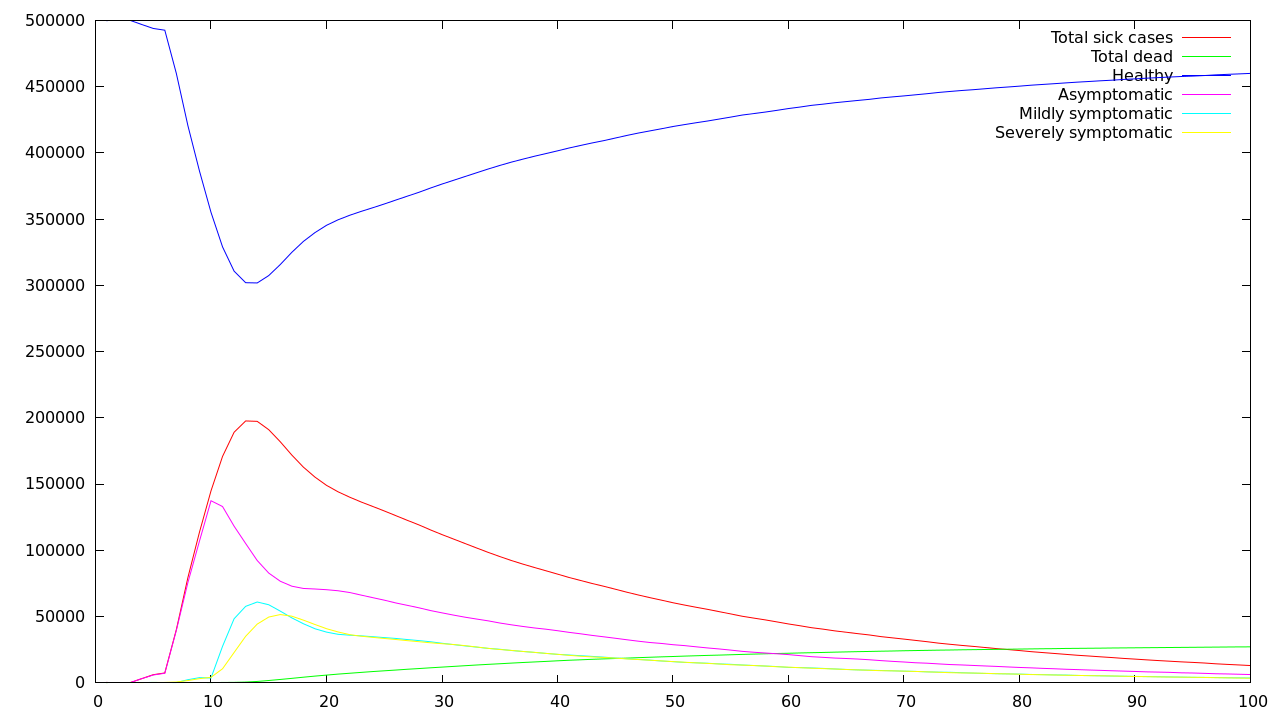
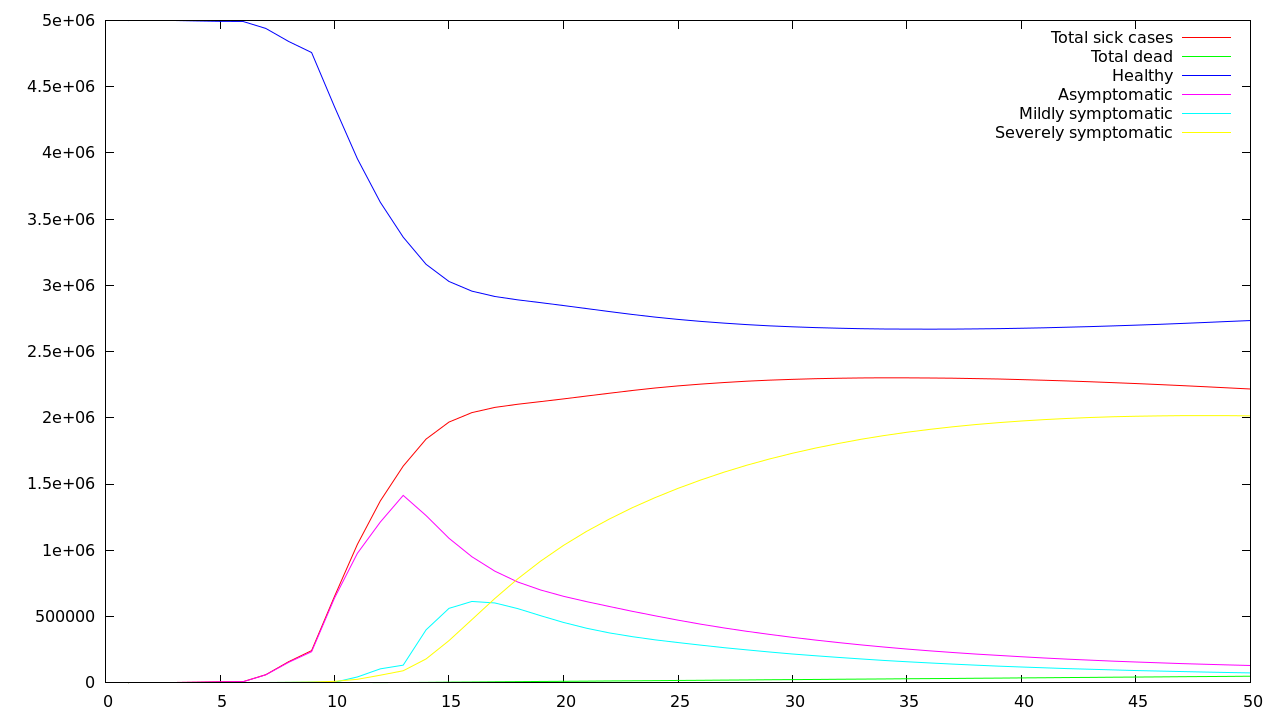
Added cli argument support

diff --git a/main.cpp b/main.cpp
@@ -39,6 +39,13 @@ float percentageFraction(){
    return (float)(min(rand() % 10001, 10000))/(float)10000;
 }
 
+bool is_number(const std::string& s)
+{
+	std::string::const_iterator it = s.begin();
+	while (it != s.end() && std::isdigit(*it)) ++it;
+	return !s.empty() && it == s.end();
+}
+
 class Population {
 public:
 	unsigned int day;
@@ -381,7 +388,7 @@ int main(int argc, char* argv[]) {
 	// Leaving 60% chance of needing hospitalization
 
 	probability_of.post_recovery_paranoia = 0.10; // Chance of self quarantine after overcoming the illness
-/*
+
 	const option long_opts[] = {
 			{"simDays", required_argument, nullptr, 'a'},
 			{"population", required_argument, nullptr, 'b'},
@@ -390,7 +397,6 @@ int main(int argc, char* argv[]) {
 			{"infectSince", required_argument, nullptr, 'e'},
 			{"avgDailyInter", required_argument, nullptr, 'f'},
 			{"hospCap", required_argument, nullptr, 'g'},
-			{"help", no_argument, nullptr, 'h'},
 			{"CgetSick", required_argument, nullptr, 'q'},
 			{"ChealthyAtHome", required_argument, nullptr, 'i'},
 			{"CmildSympt", required_argument, nullptr, 'j'},
@@ -398,93 +404,91 @@ int main(int argc, char* argv[]) {
 			{"ChospitalRec", required_argument, nullptr, 'l'},
 			{"ChospitalDeath", required_argument, nullptr, 'm'},
 			{"ChomeRec", required_argument, nullptr, 'n'},
-			{"ChomeDeath", required_argument, nullptr, 'o'},
 			{"Cprp", required_argument, nullptr, 'p'},
-			{nullptr, no_argument, nullptr, 0}
+			{"help", no_argument, nullptr, 'h'},
+			{0, no_argument, 0, 0}
 	};
-
+	
+	local_debugging_enabled ? debugging_enabled = true : debugging_enabled = false;
 	while (true)
 	{
-		const auto opt = getopt_long(argc, argv, nullptr, long_opts, nullptr);
+		const auto opt = getopt_long_only(argc, argv, "", long_opts, nullptr);
 
-		if (-1 == opt)
+		if (opt == -1)
 			break;
 
 		switch (opt)
 		{
 			case 'a':
-				number_of_simulation_days = std::stoi(optarg);
-				DEBUG(std::cout << "Number of simulation days set to: " << number_of_simulation_days << std::endl;);
+				number_of_simulation_days = std::stoul(optarg);
+				DEBUG(std::cout << "Number of simulation days set to: " << number_of_simulation_days << endl;);
 				break;
 			case 'b':
-				total_population = std::stoi(optarg);
-				DEBUG(std::cout << "Total population set to: " << total_population << std::endl;);
+				total_population = std::stoul(optarg);
+				DEBUG(std::cout << "Total population set to: " << total_population << endl;);
 				break;
 			case 'c':
-				initial_number_of_sick = std::stoi(optarg);
-				DEBUG(std::cout << "Number of simulation days set to: " << initial_number_of_sick << std::endl;);
+				initial_number_of_sick = std::stoul(optarg);
+				DEBUG(std::cout << "Initial number of sick set to: " << initial_number_of_sick << std::endl;);
 				break;
 			case 'd':
-				incubation_period = std::stoi(optarg);
-				DEBUG(std::cout << "Number of simulation days set to: " << incubation_period << std::endl;);
+				incubation_period = std::stoul(optarg);
+				DEBUG(std::cout << "Incubation period set to: " << incubation_period << std::endl;);
 				break;
 			case 'e':
-				is_infectious_since_day = std::stoi(optarg);
-				DEBUG(std::cout << "Number of simulation days set to: " << is_infectious_since_day << std::endl;);
+				is_infectious_since_day = std::stoul(optarg);
+				DEBUG(std::cout << "Infectious since day X set to: " << is_infectious_since_day << std::endl;);
 				break;
 			case 'f':
-				average_daily_interactions = std::stoi(optarg);
-				DEBUG(std::cout << "Number of simulation days set to: " << average_daily_interactions << std::endl;);
+				average_daily_interactions = std::stoul(optarg);
+				DEBUG(std::cout << "Average daily interactions set to: " << average_daily_interactions << std::endl;);
 				break;
 			case 'g':
-				hospital_capacity = std::stoi(optarg);
-				DEBUG(std::cout << "Number of simulation days set to: " << hospital_capacity << std::endl;);
+				hospital_capacity = std::stoul(optarg);
+				DEBUG(std::cout << "Hospital bed capacity set to: " << hospital_capacity << std::endl;);
 				break;
 			case 'q':
-				probability_of.getting_sick = std::stoi(optarg);
-				DEBUG(std::cout << "Number of simulation days set to: " << probability_of.getting_sick << std::endl;);
+				probability_of.getting_sick = (float)(std::stoi(optarg))/100;
+				DEBUG(std::cout << "Probability of getting sick set to: " << probability_of.getting_sick*100 << "%" << std::endl;);
 				break;
 			case 'i':
-				probability_of.healthy_staying_home = std::stoi(optarg);
-				DEBUG(std::cout << "Number of simulation days set to: " << probability_of.healthy_staying_home << std::endl;);
+				probability_of.healthy_staying_home = (float)(std::stoi(optarg))/100;
+				DEBUG(std::cout << "Probability of healthy people isolating set to: " << probability_of.healthy_staying_home*100 << "%" << std::endl;);
 				break;
 			case 'j':
-				probability_of.mild_symptoms = std::stoi(optarg);
-				DEBUG(std::cout << "Number of simulation days set to: " << probability_of.mild_symptoms << std::endl;);
+				probability_of.mild_symptoms = (float)(std::stoi(optarg))/100;
+				DEBUG(std::cout << "Probability of developing mild symptoms set to: " << probability_of.mild_symptoms*100 << "%" << std::endl;);
 				break;
 			case 'k':
-				probability_of.ms_staying_home = std::stoi(optarg);
-				DEBUG(std::cout << "Number of simulation days set to: " << probability_of.ms_staying_home << std::endl;);
+				probability_of.ms_staying_home = (float)(std::stoi(optarg))/100;
+				DEBUG(std::cout << "Probability of staying home when having mild symptoms set to: " << probability_of.ms_staying_home*100 << "%" << std::endl;);
 				break;
 			case 'l':
-				probability_of.hospital_recovery = std::stoi(optarg);
-				DEBUG(std::cout << "Number of simulation days set to: " << probability_of.hospital_recovery << std::endl;);
+				probability_of.hospital_recovery = (float)(std::stoi(optarg))/100;
+				DEBUG(std::cout << "Probability of recovery when hospitalized set to: " << probability_of.hospital_recovery*100 << "%" << std::endl;);
 				break;
 			case 'm':
-				probability_of.hospital_death = std::stoi(optarg);
-				DEBUG(std::cout << "Number of simulation days set to: " << probability_of.hospital_death << std::endl;);
+				probability_of.hospital_death = (float)(std::stoi(optarg))/100;
+				DEBUG(std::cout << "Probability of dying when hospitalized set to: " << probability_of.hospital_death*100 << "%" << std::endl;);
 				break;
 			case 'n':
-				probability_of.home_recovery = std::stoi(optarg);
-				DEBUG(std::cout << "Number of simulation days set to: " << probability_of.home_recovery << std::endl;);
-				break;
-			case 'o':
-				probability_of.home_death = std::stoi(optarg);
-				DEBUG(std::cout << "Number of simulation days set to: " << probability_of.home_death << std::endl;);
+				probability_of.home_recovery = (float)(std::stoi(optarg))/100;
+				DEBUG(std::cout << "Probability of recovering in home isolation set to: " << probability_of.home_recovery*100 << "%" << std::endl;);
 				break;
 			case 'p':
-				probability_of.post_recovery_paranoia = std::stoi(optarg);
-				DEBUG(std::cout << "Number of simulation days set to: " << probability_of.post_recovery_paranoia << std::endl;);
+				probability_of.post_recovery_paranoia = (float)(std::stoi(optarg))/100;
+				DEBUG(std::cout << "Probability of post recovery paranoia set to: " << probability_of.post_recovery_paranoia*100 << "%" << std::endl;);
 				break;
 			case 'h': // -h or --help
 			case '?': // Unrecognized option
 			default:
 				//PrintHelp();
 				cout << "Help message placeholder" << endl;
-				break;
-		}
+				return 0;
+		}	
 	}
-*/
+	local_debugging_enabled ? debugging_enabled = false : debugging_enabled = true;
+
 	Population population = Population(total_population, incubation_period, initial_number_of_sick,
 									   is_infectious_since_day, average_daily_interactions, hospital_capacity);
 	population.day = 0;
@@ -512,11 +516,9 @@ int main(int argc, char* argv[]) {
 		 * anyone and either stay home or try to get admitted into the hospital to get treatment*/
 		population.IllnessAdvances(local_debugging_enabled);
 
-
 		debugging_enabled = local_debugging_enabled;
 		DEBUG(population.Report(););
 		unsigned int c = population.day-1;
-		Population temp = population;
 		archive[c] = new Population(0,0,0,0,0,0);
 		*archive[c] = population;
 		--number_of_simulation_days;
